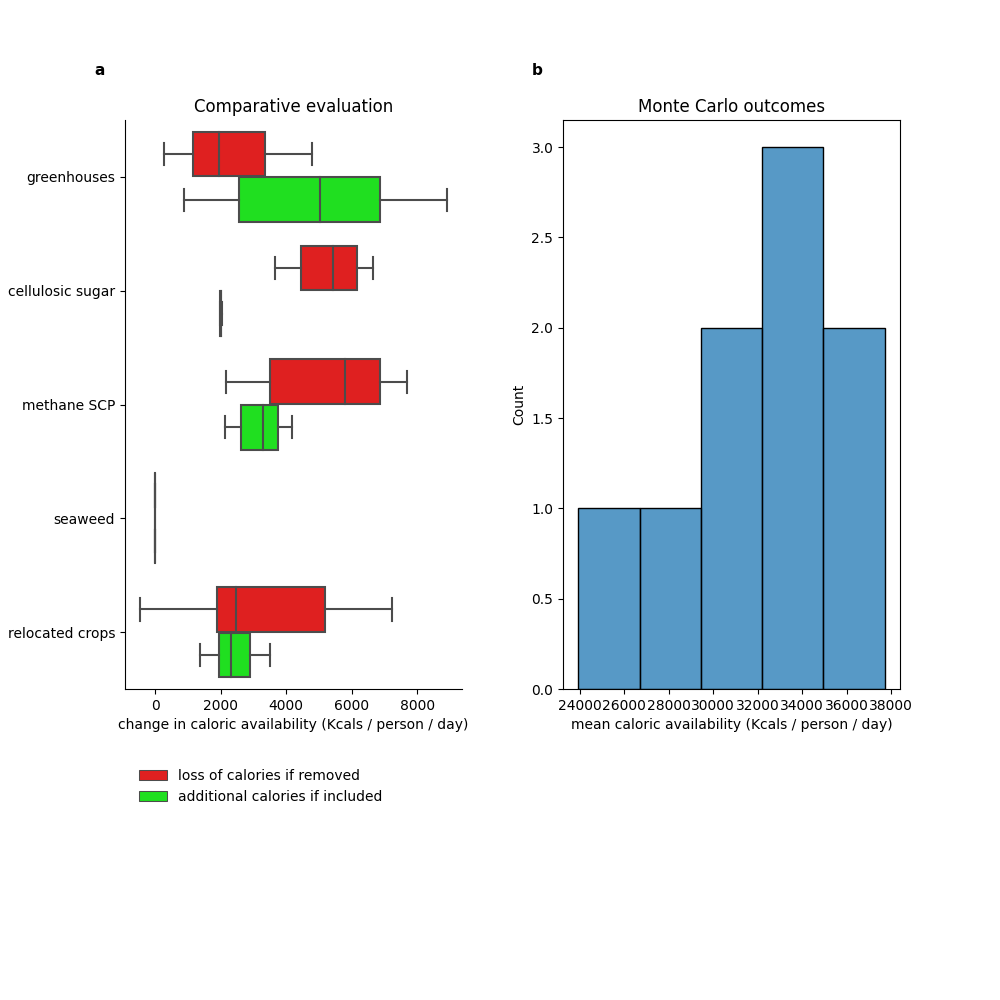
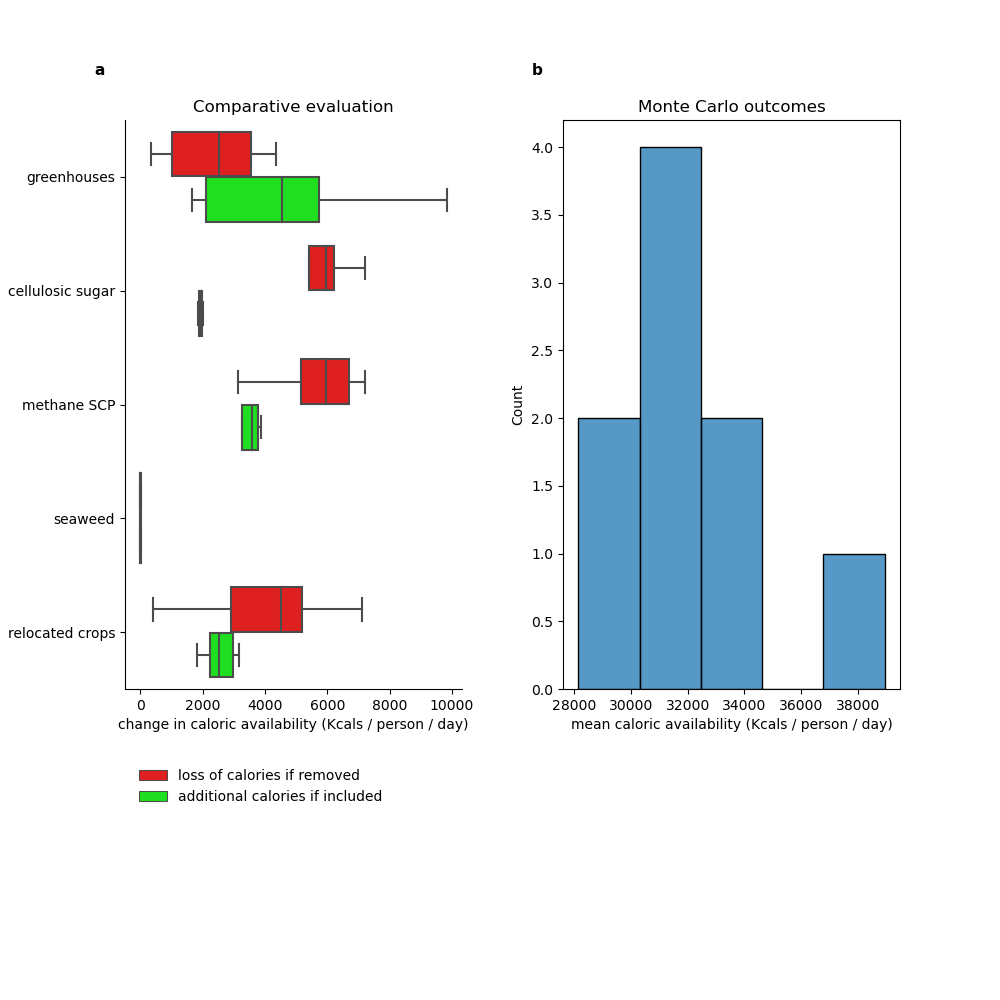
added buffer to monte carlo

diff --git a/src/scenarios/monte_carlo.py b/src/scenarios/monte_carlo.py
@@ -62,7 +62,7 @@ class MonteCarlo:
             inputs_to_optimizer
         )
 
-        inputs_to_optimizer = scenarios_loader.set_stored_food_all_used(
+        inputs_to_optimizer = scenarios_loader.set_stored_food_buffer_zero(
             inputs_to_optimizer
         )
 
